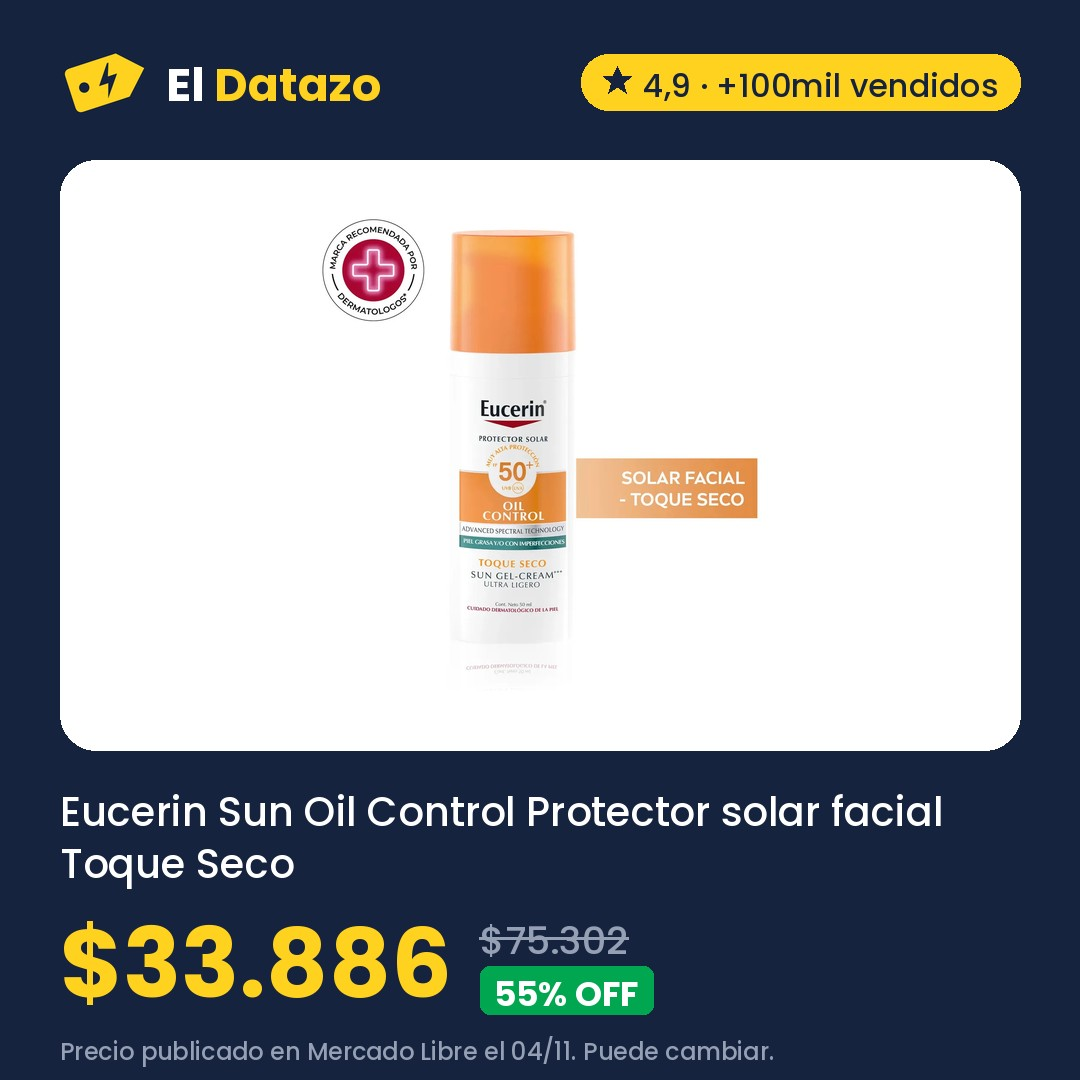
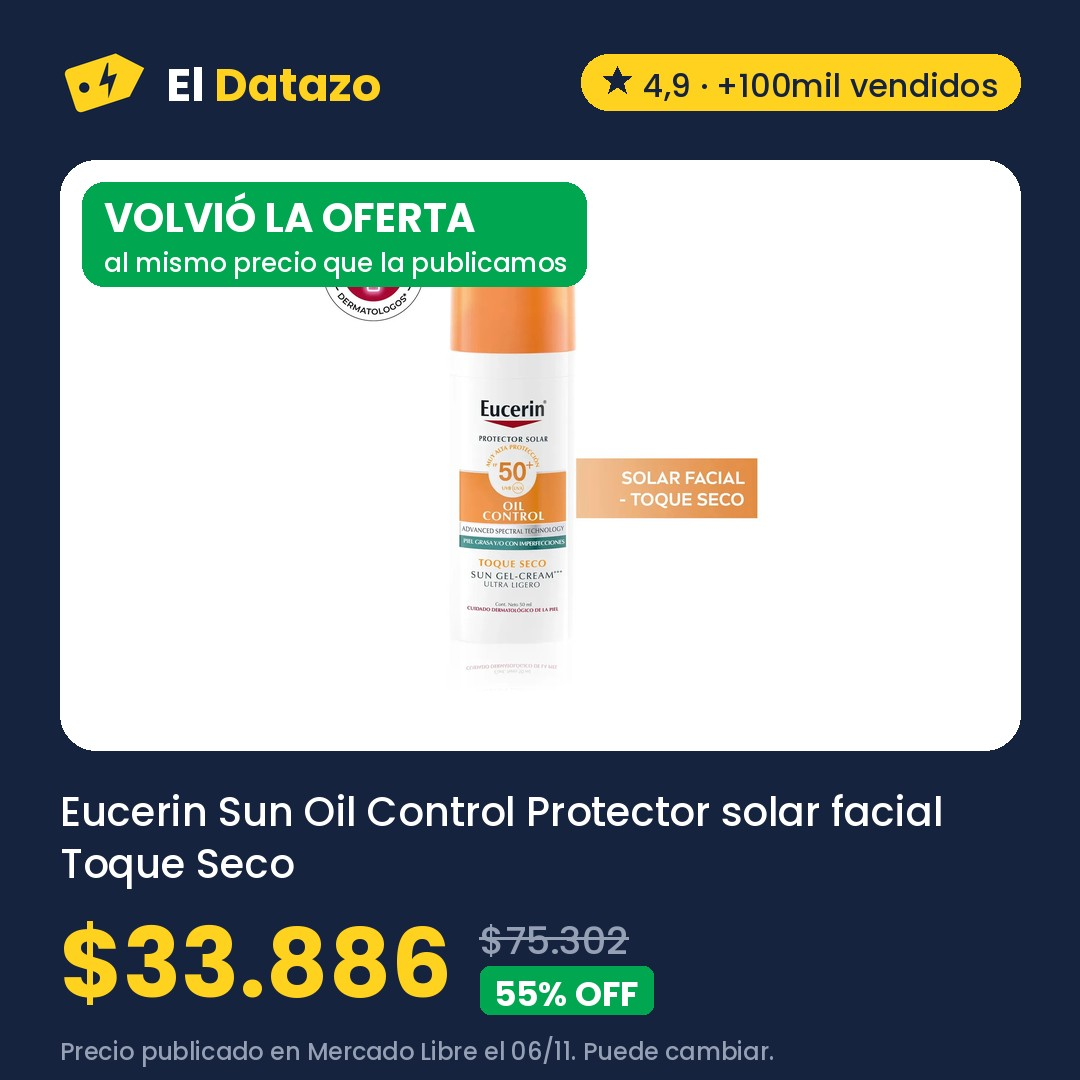
Ofertas 2026-11-06 14:33

Changed region(s): [[0.0611, 0.1528, 0.55, 0.275], [0.4889, 0.9472, 0.5194, 0.9778]]

diff --git a/index.html b/index.html
@@ -288,12 +288,12 @@ padding:3px 9px;border-radius:999px}
   <section class="hero" id="MLA47200126" aria-labelledby="hero-titulo">
     <div class="hero-foto"><img src="img/MLA47200126.jpg" alt="Extractor De Leche Eléctrico Mawe By Gadnic RH-289 150 ml 9 Niveles Pantalla LED Batería Recargable 1200mAh" width="1080" height="1080"></div>
     <div class="etiqueta">
-      <p class="etiqueta-cabeza">El datazo de hoy <span class="sello">Quedan 6 días</span></p>
+      <p class="etiqueta-cabeza">El datazo de hoy <span class="sello">Quedan 5 días</span></p>
       <h2 id="hero-titulo">Extractor De Leche Eléctrico Mawe By Gadnic RH-289 150 ml 9 Niveles Pantalla LED Batería Recargable 1200mAh</h2>
       <p class="hero-precio">$32.799</p>
       <p class="hero-antes"><s>$88.399</s> <span class="off">63% OFF</span></p>
       <p class="bajo pastilla"><b>⬇ Volvió</b> · Había terminado y volvió al mismo precio</p>
-      <p class="nota">Precio de hoy a las 20:31 en Mercado Libre. Puede cambiar.</p>
+      <p class="nota">Precio del 05/11 en Mercado Libre, revisado hoy a las 11:32. Puede cambiar.</p>
       <a class="boton oscuro" href="https://meli.la/314C11i" rel="sponsored noopener" target="_blank"
          data-oferta="MLA47200126">Ver oferta en Mercado Libre</a>
       <a class="compartir" href="https://wa.me/?text=Mir%C3%A1%20este%20datazo%3A%20Extractor%20De%20Leche%20El%C3%A9ctrico%20Mawe%20By%20Gadnic%20RH-289%20150%20ml%209%20Niveles%20Pantalla%20LED%20Bater%C3%ADa%20Recargable%201200mAh%20a%20%2432.799%20https%3A//eldatazo.com.ar/%23MLA47200126" target="_blank" rel="noopener" data-estilo="texto"><svg viewBox="0 0 24 24" width="16" height="16" aria-hidden="true"><path d="M4 20l1.3-4A8 8 0 1 1 8 18.7L4 20z" fill="none" stroke="currentColor" stroke-width="2" stroke-linejoin="round"/></svg> Compartir por WhatsApp</a>
@@ -317,16 +317,16 @@ padding:3px 9px;border-radius:999px}
           <span><b>Cámara Digital Kodak Charmera RK0601 Retro Compacta para Llavero y Video</b><span class="ahora">$54.454</span><s>$57.573</s> <span class="bajo">⬇ Bajó</span></span></a></li>
         <li><a href="#MLA43803009"><img src="img/MLA43803009.jpg" alt="" loading="lazy">
           <span><b>Mochila Viaje Carry On Avion Porta Notebook Waggs Negro Lisa</b><span class="ahora">$45.087</span><s>$46.799</s> <span class="bajo">⬇ Volvió y bajó</span></span></a></li>
-        <li><a href="#MLA26204453"><img src="img/MLA26204453.jpg" alt="" loading="lazy">
-          <span><b>Bomba Desagote Agua Sucia Vasser De 400ps 400 Watts</b><span class="ahora">$68.843</span> <span class="bajo">⬇ Volvió</span></span></a></li>
+        <li><a href="#MLA16048275"><img src="img/MLA16048275.jpg" alt="" loading="lazy">
+          <span><b>Eucerin Sun Oil Control Protector solar facial Toque Seco FPS 50 x 50 ml</b><span class="ahora">$33.886</span> <span class="bajo">⬇ Volvió</span></span></a></li>
         <li><a href="#MLA47200126"><img src="img/MLA47200126.jpg" alt="" loading="lazy">
           <span><b>Extractor De Leche Eléctrico Mawe By Gadnic RH-289 150 ml 9 Niveles Pantalla LED Batería Recargable 1200mAh</b><span class="ahora">$32.799</span> <span class="bajo">⬇ Volvió</span></span></a></li>
         <li><a href="#MLA22130330"><img src="img/MLA22130330.jpg" alt="" loading="lazy">
           <span><b>Buclera de Pelo Gadnic B3000 Rizador 3 Tubos 25 mm 150W 180 210 C</b><span class="ahora">$44.463</span> <span class="bajo">⬇ Volvió</span></span></a></li>
         <li><a href="#MLA28878536"><img src="img/MLA28878536.jpg" alt="" loading="lazy">
           <span><b>BOTIQUÍN DE BAÑO TRENTO AMUBE 30x50 CM | Espejo y Repisa | Melamina Blanca</b><span class="ahora">$44.999</span> <span class="bajo">⬇ Volvió</span></span></a></li>
-        <li><a href="https://meli.la/1EDCkjd" rel="sponsored noopener" target="_blank" data-oferta="MLA26835194"><img src="https://http2.mlstatic.com/D_Q_NP_655367-MLA99502430822_112025-AB.webp" alt="" loading="lazy" referrerpolicy="no-referrer">
-          <span><b>Marvel Spider Man 2 Ps5 Playstation 5 Edicion Lanzamiento</b><span class="ahora">$74.999</span><s>$100.000</s>
+        <li><a href="https://meli.la/2oPyPUm" rel="sponsored noopener" target="_blank" data-oferta="MLA18651916"><img src="https://http2.mlstatic.com/D_Q_NP_697638-MLA99515510390_112025-AB.webp" alt="" loading="lazy" referrerpolicy="no-referrer">
+          <span><b>Auriculares Gamer G435 Logitech G Wireless Gaming Headset Color Negro/Amarillo fluorescente</b><span class="ahora">$172.017</span><s>$290.992</s>
           <span class="bajo">⬇ Bajó</span></span></a></li>
     </ul>
   </section>
@@ -347,38 +347,38 @@ padding:3px 9px;border-radius:999px}
             <option value="precio">Más baratas</option>
           </select></label>
       </div>
-      <div class="chips" role="group" aria-label="Rubro"><button type="button" data-filtro="" aria-pressed="true">Todo</button><button type="button" data-filtro="MLA1512" aria-pressed="false">Agro <span>3</span></button><button type="button" data-filtro="MLA1499" aria-pressed="false">Industrias y Oficinas <span>2</span></button><button type="button" data-filtro="MLA1246" aria-pressed="false">Belleza y Cuidado Personal <span>1</span></button><button type="button" data-filtro="MLA1144" aria-pressed="false">Consolas y Videojuegos <span>1</span></button><button type="button" data-filtro="MLA1500" aria-pressed="false">Construcción <span>1</span></button><button type="button" data-filtro="MLA1039" aria-pressed="false">Cámaras y Accesorios <span>1</span></button><button type="button" data-filtro="MLA1276" aria-pressed="false">Deportes y Fitness <span>1</span></button><button type="button" data-filtro="MLA3025" aria-pressed="false">Libros, Revistas y Comics <span>1</span></button><button type="button" data-filtro="MLA1430" aria-pressed="false">Ropa y Accesorios <span>1</span></button><button type="button" data-filtro="MLA409431" aria-pressed="false">Salud y Equipamiento Médico <span>1</span></button></div>
+      <div class="chips" role="group" aria-label="Rubro"><button type="button" data-filtro="" aria-pressed="true">Todo</button><button type="button" data-filtro="MLA1512" aria-pressed="false">Agro <span>2</span></button><button type="button" data-filtro="MLA1246" aria-pressed="false">Belleza y Cuidado Personal <span>2</span></button><button type="button" data-filtro="MLA1499" aria-pressed="false">Industrias y Oficinas <span>2</span></button><button type="button" data-filtro="MLA1144" aria-pressed="false">Consolas y Videojuegos <span>1</span></button><button type="button" data-filtro="MLA1500" aria-pressed="false">Construcción <span>1</span></button><button type="button" data-filtro="MLA1039" aria-pressed="false">Cámaras y Accesorios <span>1</span></button><button type="button" data-filtro="MLA1276" aria-pressed="false">Deportes y Fitness <span>1</span></button><button type="button" data-filtro="MLA3025" aria-pressed="false">Libros, Revistas y Comics <span>1</span></button><button type="button" data-filtro="MLA1430" aria-pressed="false">Ropa y Accesorios <span>1</span></button><button type="button" data-filtro="MLA409431" aria-pressed="false">Salud y Equipamiento Médico <span>1</span></button></div>
       <p class="contador" aria-live="polite"><span data-cuenta>13</span> ofertas</p>
     </div>
     <div class="grilla activas">
-      <article class="tarjeta destacada" id="MLA26204453" data-rubro="MLA1512" data-off="19" data-pub="2026-11-05" data-quedan="7" data-precio="68843" data-bajo="1" data-texto="bomba desagote agua sucia vasser de 400ps 400 watts">
+      <article class="tarjeta destacada" id="MLA16048275" data-rubro="MLA1246" data-off="55" data-pub="2026-11-06" data-quedan="7" data-precio="33885" data-bajo="1" data-texto="eucerin sun oil control protector solar facial toque seco fps 50 x 50 ml">
         <div class="tarjeta-foto">
-          <img src="img/MLA26204453.jpg" alt="Bomba Desagote Agua Sucia Vasser De 400ps 400 Watts" loading="lazy" width="1080" height="1080">
+          <img src="img/MLA16048275.jpg" alt="Eucerin Sun Oil Control Protector solar facial Toque Seco FPS 50 x 50 ml" loading="lazy" width="1080" height="1080">
         </div>
         <div class="cuerpo">
-          <div class="fila"><span class="sello baja">⬇ Volvió</span><span class="sello">Quedan 7 días</span><span class="rubro">Agro</span></div>
-          <h3>Bomba Desagote Agua Sucia Vasser De 400ps 400 Watts</h3>
-          <p class="precios "><span class="precio">$68.843</span><s class="antes">$85.441</s><span class="off">19% OFF</span></p>
+          <div class="fila"><span class="sello baja">⬇ Volvió</span><span class="sello">Quedan 7 días</span><span class="rubro">Belleza y Cuidado Personal</span></div>
+          <h3>Eucerin Sun Oil Control Protector solar facial Toque Seco FPS 50 x 50 ml</h3>
+          <p class="precios "><span class="precio">$33.886</span><s class="antes">$75.302</s><span class="off">55% OFF</span></p>
           <p class="bajo">Había terminado y volvió al mismo precio</p>
-          <p class="nota">Precio de hoy a las 20:31 en Mercado Libre. Puede cambiar.</p>
+          <p class="nota">Precio de hoy a las 11:32 en Mercado Libre. Puede cambiar.</p>
           <div class="acciones">
-            <a class="boton" href="https://meli.la/19GEcXU" rel="sponsored noopener" target="_blank"
-               data-oferta="MLA26204453">Ver oferta</a>
-            <a class="compartir" href="https://wa.me/?text=Mir%C3%A1%20este%20datazo%3A%20Bomba%20Desagote%20Agua%20Sucia%20Vasser%20De%20400ps%20400%20Watts%20a%20%2468.843%20https%3A//eldatazo.com.ar/%23MLA26204453" target="_blank" rel="noopener"
+            <a class="boton" href="https://meli.la/2Zpeewk" rel="sponsored noopener" target="_blank"
+               data-oferta="MLA16048275">Ver oferta</a>
+            <a class="compartir" href="https://wa.me/?text=Mir%C3%A1%20este%20datazo%3A%20Eucerin%20Sun%20Oil%20Control%20Protector%20solar%20facial%20Toque%20Seco%20FPS%2050%20x%2050%20ml%20a%20%2433.886%20https%3A//eldatazo.com.ar/%23MLA16048275" target="_blank" rel="noopener"
                aria-label="Compartir por WhatsApp" title="Compartir por WhatsApp"><svg viewBox="0 0 24 24" width="16" height="16" aria-hidden="true"><path d="M4 20l1.3-4A8 8 0 1 1 8 18.7L4 20z" fill="none" stroke="currentColor" stroke-width="2" stroke-linejoin="round"/></svg></a>
           </div>
         </div>
       </article>
-      <article class="tarjeta destacada" id="MLA19719361" data-rubro="MLA1499" data-off="45" data-pub="2026-11-02" data-quedan="4" data-precio="32899" data-bajo="11" data-texto="yelmo as-3240 aspiradora para auto recargable usb color gris">
+      <article class="tarjeta destacada" id="MLA19719361" data-rubro="MLA1499" data-off="45" data-pub="2026-11-02" data-quedan="3" data-precio="32899" data-bajo="11" data-texto="yelmo as-3240 aspiradora para auto recargable usb color gris">
         <div class="tarjeta-foto">
           <img src="img/MLA19719361.jpg" alt="Yelmo As-3240 Aspiradora Para Auto Recargable Usb Color Gris" loading="lazy" width="1080" height="1080">
         </div>
         <div class="cuerpo">
-          <div class="fila"><span class="sello baja">⬇ Volvió y bajó</span><span class="sello">Quedan 4 días</span><span class="rubro">Industrias y Oficinas</span></div>
+          <div class="fila"><span class="sello baja">⬇ Volvió y bajó</span><span class="sello">Quedan 3 días</span><span class="rubro">Industrias y Oficinas</span></div>
           <h3>Yelmo As-3240 Aspiradora Para Auto Recargable Usb Color Gris</h3>
           <p class="precios "><span class="precio">$32.899</span><s class="antes">$59.899</s><span class="off">45% OFF</span></p>
           <p class="bajo">Antes $36.567 el 02/11 · 10% menos</p>
-          <p class="nota">Precio del 03/11 en Mercado Libre, revisado hoy a las 20:31. Puede cambiar.</p>
+          <p class="nota">Precio del 03/11 en Mercado Libre, revisado hoy a las 11:32. Puede cambiar.</p>
           <div class="acciones">
             <a class="boton" href="https://meli.la/1BA5g6k" rel="sponsored noopener" target="_blank"
                data-oferta="MLA19719361">Ver oferta</a>
@@ -387,16 +387,16 @@ padding:3px 9px;border-radius:999px}
           </div>
         </div>
       </article>
-      <article class="tarjeta destacada" id="MLA22130330" data-rubro="MLA1246" data-off="56" data-pub="2026-11-02" data-quedan="4" data-precio="44462" data-bajo="1" data-texto="buclera de pelo gadnic b3000 rizador 3 tubos 25 mm 150w 180 210 c">
+      <article class="tarjeta destacada" id="MLA22130330" data-rubro="MLA1246" data-off="56" data-pub="2026-11-02" data-quedan="3" data-precio="44462" data-bajo="1" data-texto="buclera de pelo gadnic b3000 rizador 3 tubos 25 mm 150w 180 210 c">
         <div class="tarjeta-foto">
           <img src="img/MLA22130330.jpg" alt="Buclera de Pelo Gadnic B3000 Rizador 3 Tubos 25 mm 150W 180 210 C" loading="lazy" width="1080" height="1080">
         </div>
         <div class="cuerpo">
-          <div class="fila"><span class="sello baja">⬇ Volvió</span><span class="sello">Quedan 4 días</span><span class="rubro">Belleza y Cuidado Personal</span></div>
+          <div class="fila"><span class="sello baja">⬇ Volvió</span><span class="sello">Quedan 3 días</span><span class="rubro">Belleza y Cuidado Personal</span></div>
           <h3>Buclera de Pelo Gadnic B3000 Rizador 3 Tubos 25 mm 150W 180 210 C</h3>
           <p class="precios "><span class="precio">$44.463</span><s class="antes">$100.099</s><span class="off">56% OFF</span></p>
           <p class="bajo">Había terminado y volvió al mismo precio</p>
-          <p class="nota">Precio del 03/11 en Mercado Libre, revisado hoy a las 20:31. Puede cambiar.</p>
+          <p class="nota">Precio del 03/11 en Mercado Libre, revisado hoy a las 11:32. Puede cambiar.</p>
           <div class="acciones">
             <a class="boton" href="https://meli.la/1HyqnAD" rel="sponsored noopener" target="_blank"
                data-oferta="MLA22130330">Ver oferta</a>
@@ -405,16 +405,16 @@ padding:3px 9px;border-radius:999px}
           </div>
         </div>
       </article>
-      <article class="tarjeta destacada" id="MLA24729106" data-rubro="MLA1512" data-off="17" data-pub="2026-11-02" data-quedan="4" data-precio="47890" data-bajo="13" data-texto="crique hidraulico carrito gato para autos 2 tn mejor calidad">
+      <article class="tarjeta destacada" id="MLA24729106" data-rubro="MLA1512" data-off="17" data-pub="2026-11-02" data-quedan="3" data-precio="47890" data-bajo="13" data-texto="crique hidraulico carrito gato para autos 2 tn mejor calidad">
         <div class="tarjeta-foto">
           <img src="img/MLA24729106.jpg" alt="Crique Hidraulico Carrito Gato Para Autos 2 Tn Mejor Calidad" loading="lazy" width="1080" height="1080">
         </div>
         <div class="cuerpo">
-          <div class="fila"><span class="sello baja">⬇ Bajó</span><span class="sello">Quedan 4 días</span><span class="rubro">Agro</span></div>
+          <div class="fila"><span class="sello baja">⬇ Bajó</span><span class="sello">Quedan 3 días</span><span class="rubro">Agro</span></div>
           <h3>Crique Hidraulico Carrito Gato Para Autos 2 Tn Mejor Calidad</h3>
           <p class="precios "><span class="precio">$47.890</span><s class="antes">$58.014</s><span class="off">17% OFF</span></p>
           <p class="bajo">Antes $54.533 el 01/11 · 12% menos</p>
-          <p class="nota">Precio del 02/11 en Mercado Libre, revisado hoy a las 20:31. Puede cambiar.</p>
+          <p class="nota">Precio del 02/11 en Mercado Libre, revisado hoy a las 11:32. Puede cambiar.</p>
           <div class="acciones">
             <a class="boton" href="https://meli.la/2ZwvMNb" rel="sponsored noopener" target="_blank"
                data-oferta="MLA24729106">Ver oferta</a>
@@ -423,16 +423,16 @@ padding:3px 9px;border-radius:999px}
           </div>
         </div>
       </article>
-      <article class="tarjeta destacada" id="MLA28878536" data-rubro="MLA1500" data-off="1" data-pub="2026-11-02" data-quedan="4" data-precio="44999" data-bajo="1" data-texto="botiquín de baño trento amube 30x50 cm | espejo y repisa | melamina blanca">
+      <article class="tarjeta destacada" id="MLA28878536" data-rubro="MLA1500" data-off="1" data-pub="2026-11-02" data-quedan="3" data-precio="44999" data-bajo="1" data-texto="botiquín de baño trento amube 30x50 cm | espejo y repisa | melamina blanca">
         <div class="tarjeta-foto">
           <img src="img/MLA28878536.jpg" alt="BOTIQUÍN DE BAÑO TRENTO AMUBE 30x50 CM | Espejo y Repisa | Melamina Blanca" loading="lazy" width="1080" height="1080">
         </div>
         <div class="cuerpo">
-          <div class="fila"><span class="sello baja">⬇ Volvió</span><span class="sello">Quedan 4 días</span><span class="rubro">Construcción</span></div>
+          <div class="fila"><span class="sello baja">⬇ Volvió</span><span class="sello">Quedan 3 días</span><span class="rubro">Construcción</span></div>
           <h3>BOTIQUÍN DE BAÑO TRENTO AMUBE 30x50 CM | Espejo y Repisa | Melamina Blanca</h3>
           <p class="precios "><span class="precio">$44.999</span><s class="antes">$45.394</s><span class="off">1% OFF</span></p>
           <p class="bajo">Había terminado y volvió al mismo precio</p>
-          <p class="nota">Precio de hoy a las 20:31 en Mercado Libre. Puede cambiar.</p>
+          <p class="nota">Precio del 05/11 en Mercado Libre, revisado hoy a las 11:32. Puede cambiar.</p>
           <div class="acciones">
             <a class="boton" href="https://meli.la/2PKMfSp" rel="sponsored noopener" target="_blank"
                data-oferta="MLA28878536">Ver oferta</a>
@@ -441,16 +441,16 @@ padding:3px 9px;border-radius:999px}
           </div>
         </div>
       </article>
-      <article class="tarjeta destacada" id="MLA43803009" data-rubro="MLA1430" data-off="53" data-pub="2026-11-02" data-quedan="4" data-precio="45087" data-bajo="5" data-texto="mochila viaje carry on avion porta notebook waggs negro lisa">
+      <article class="tarjeta destacada" id="MLA43803009" data-rubro="MLA1430" data-off="53" data-pub="2026-11-02" data-quedan="3" data-precio="45087" data-bajo="5" data-texto="mochila viaje carry on avion porta notebook waggs negro lisa">
         <div class="tarjeta-foto">
           <img src="img/MLA43803009.jpg" alt="Mochila Viaje Carry On Avion Porta Notebook Waggs Negro Lisa" loading="lazy" width="1080" height="1080">
         </div>
         <div class="cuerpo">
-          <div class="fila"><span class="sello baja">⬇ Volvió y bajó</span><span class="sello">Quedan 4 días</span><span class="rubro">Ropa y Accesorios</span></div>
+          <div class="fila"><span class="sello baja">⬇ Volvió y bajó</span><span class="sello">Quedan 3 días</span><span class="rubro">Ropa y Accesorios</span></div>
           <h3>Mochila Viaje Carry On Avion Porta Notebook Waggs Negro Lisa</h3>
           <p class="precios "><span class="precio">$45.087</span><s class="antes">$96.758</s><span class="off">53% OFF</span></p>
           <p class="bajo">Antes $46.799 el 28/10 · 4% menos</p>
-          <p class="nota">Precio del 02/11 en Mercado Libre, revisado hoy a las 20:31. Puede cambiar.</p>
+          <p class="nota">Precio del 02/11 en Mercado Libre, revisado hoy a las 11:32. Puede cambiar.</p>
           <div class="acciones">
             <a class="boton" href="https://meli.la/1Y9GX65" rel="sponsored noopener" target="_blank"
                data-oferta="MLA43803009">Ver oferta</a>
@@ -459,16 +459,16 @@ padding:3px 9px;border-radius:999px}
           </div>
         </div>
       </article>
-      <article class="tarjeta destacada" id="MLA73800060" data-rubro="MLA3025" data-off="0" data-pub="2026-11-02" data-quedan="4" data-precio="17000" data-bajo="49" data-texto="libro: primero yo, después el resto: 120 sesiones de verdad">
+      <article class="tarjeta destacada" id="MLA73800060" data-rubro="MLA3025" data-off="0" data-pub="2026-11-02" data-quedan="3" data-precio="17000" data-bajo="49" data-texto="libro: primero yo, después el resto: 120 sesiones de verdad">
         <div class="tarjeta-foto">
           <img src="img/MLA73800060.jpg" alt="Libro: Primero Yo, Después El Resto: 120 Sesiones De Verdad" loading="lazy" width="1080" height="1080">
         </div>
         <div class="cuerpo">
-          <div class="fila"><span class="sello baja">⬇ Bajó</span><span class="sello">Quedan 4 días</span><span class="rubro">Libros, Revistas y Comics</span></div>
+          <div class="fila"><span class="sello baja">⬇ Bajó</span><span class="sello">Quedan 3 días</span><span class="rubro">Libros, Revistas y Comics</span></div>
           <h3>Libro: Primero Yo, Después El Resto: 120 Sesiones De Verdad</h3>
           <p class="precios "><span class="precio">$17.000</span></p>
           <p class="bajo">Antes $33.000 el 01/11 · 48% menos</p>
-          <p class="nota">Precio del 02/11 en Mercado Libre, revisado hoy a las 20:31. Puede cambiar.</p>
+          <p class="nota">Precio del 02/11 en Mercado Libre, revisado hoy a las 11:32. Puede cambiar.</p>
           <div class="acciones">
             <a class="boton" href="https://meli.la/2DQxPNs" rel="sponsored noopener" target="_blank"
                data-oferta="MLA73800060">Ver oferta</a>
@@ -477,16 +477,16 @@ padding:3px 9px;border-radius:999px}
           </div>
         </div>
       </article>
-      <article class="tarjeta destacada" id="MLA19472094" data-rubro="MLA1144" data-off="53" data-pub="2026-11-01" data-quedan="3" data-precio="69999" data-bajo="9" data-texto="god of war ragnarok ps4 juego físico nuevo sony original">
+      <article class="tarjeta destacada" id="MLA19472094" data-rubro="MLA1144" data-off="53" data-pub="2026-11-01" data-quedan="2" data-precio="69999" data-bajo="9" data-texto="god of war ragnarok ps4 juego físico nuevo sony original">
         <div class="tarjeta-foto">
           <img src="img/MLA19472094.jpg" alt="God Of War Ragnarok Ps4 Juego Físico Nuevo Sony Original" loading="lazy" width="1080" height="1080">
         </div>
         <div class="cuerpo">
-          <div class="fila"><span class="sello baja">⬇ Bajó</span><span class="sello">Quedan 3 días</span><span class="rubro">Consolas y Videojuegos</span></div>
+          <div class="fila"><span class="sello baja">⬇ Bajó</span><span class="sello">Quedan 2 días</span><span class="rubro">Consolas y Videojuegos</span></div>
           <h3>God Of War Ragnarok Ps4 Juego Físico Nuevo Sony Original</h3>
           <p class="precios "><span class="precio">$69.999</span><s class="antes">$149.999</s><span class="off">53% OFF</span></p>
           <p class="bajo">Antes $75.999 el 01/11 · 8% menos</p>
-          <p class="nota">Precio del 03/11 en Mercado Libre, revisado hoy a las 20:31. Puede cambiar.</p>
+          <p class="nota">Precio del 03/11 en Mercado Libre, revisado hoy a las 11:32. Puede cambiar.</p>
           <div class="acciones">
             <a class="boton" href="https://meli.la/217QPCu" rel="sponsored noopener" target="_blank"
                data-oferta="MLA19472094">Ver oferta</a>
@@ -495,16 +495,16 @@ padding:3px 9px;border-radius:999px}
           </div>
         </div>
       </article>
-      <article class="tarjeta destacada" id="MLA23456165" data-rubro="MLA409431" data-off="11" data-pub="2026-11-01" data-quedan="3" data-precio="46932" data-bajo="8" data-texto="silfab al91 almohadilla eléctrica espalda large 41 x 28 cm">
+      <article class="tarjeta destacada" id="MLA23456165" data-rubro="MLA409431" data-off="11" data-pub="2026-11-01" data-quedan="2" data-precio="46932" data-bajo="8" data-texto="silfab al91 almohadilla eléctrica espalda large 41 x 28 cm">
         <div class="tarjeta-foto">
           <img src="img/MLA23456165.jpg" alt="Silfab AL91 Almohadilla Eléctrica Espalda Large 41 X 28 Cm" loading="lazy" width="1080" height="1080">
         </div>
         <div class="cuerpo">
-          <div class="fila"><span class="sello baja">⬇ Volvió y bajó</span><span class="sello">Quedan 3 días</span><span class="rubro">Salud y Equipamiento Médico</span></div>
+          <div class="fila"><span class="sello baja">⬇ Volvió y bajó</span><span class="sello">Quedan 2 días</span><span class="rubro">Salud y Equipamiento Médico</span></div>
           <h3>Silfab AL91 Almohadilla Eléctrica Espalda Large 41 X 28 Cm</h3>
           <p class="precios "><span class="precio">$46.932</span><s class="antes">$52.990</s><span class="off">11% OFF</span></p>
           <p class="bajo">Antes $50.465 el 24/10 · 7% menos</p>
-          <p class="nota">Precio del 02/11 en Mercado Libre, revisado hoy a las 20:31. Puede cambiar.</p>
+          <p class="nota">Precio del 02/11 en Mercado Libre, revisado hoy a las 11:32. Puede cambiar.</p>
           <div class="acciones">
             <a class="boton" href="https://meli.la/2cQdCWW" rel="sponsored noopener" target="_blank"
                data-oferta="MLA23456165">Ver oferta</a>
@@ -513,16 +513,16 @@ padding:3px 9px;border-radius:999px}
           </div>
         </div>
       </article>
-      <article class="tarjeta" id="MLA29532448" data-rubro="MLA1512" data-off="0" data-pub="2026-11-01" data-quedan="3" data-precio="70220" data-bajo="0" data-texto="taladro percutor total mandril 13mm 710w tg107136 color turquesa frecuencia 50 hz x 60 hz">
+      <article class="tarjeta" id="MLA29532448" data-rubro="MLA1512" data-off="0" data-pub="2026-11-01" data-quedan="2" data-precio="70220" data-bajo="0" data-texto="taladro percutor total mandril 13mm 710w tg107136 color turquesa frecuencia 50 hz x 60 hz">
         <div class="tarjeta-foto">
           <img src="img/MLA29532448.jpg" alt="Taladro Percutor Total Mandril 13mm 710w Tg107136 Color Turquesa Frecuencia 50 Hz x 60 Hz" loading="lazy" width="1080" height="1080">
         </div>
         <div class="cuerpo">
-          <div class="fila"><span class="sello">Quedan 3 días</span><span class="rubro">Agro</span></div>
+          <div class="fila"><span class="sello">Quedan 2 días</span><span class="rubro">Agro</span></div>
           <h3>Taladro Percutor Total Mandril 13mm 710w Tg107136 Color Turquesa Frecuencia 50 Hz x 60 Hz</h3>
           <p class="precios "><span class="precio">$70.220</span></p>
           
-          <p class="nota">Precio del 01/11 en Mercado Libre, revisado hoy a las 20:31. Puede cambiar.</p>
+          <p class="nota">Precio del 01/11 en Mercado Libre, revisado hoy a las 11:32. Puede cambiar.</p>
           <div class="acciones">
             <a class="boton" href="https://meli.la/2dUz2s5" rel="sponsored noopener" target="_blank"
                data-oferta="MLA29532448">Ver oferta</a>
@@ -531,16 +531,16 @@ padding:3px 9px;border-radius:999px}
           </div>
         </div>
       </article>
-      <article class="tarjeta destacada" id="MLA63186370" data-rubro="MLA1039" data-off="32" data-pub="2026-11-01" data-quedan="3" data-precio="54454" data-bajo="6" data-texto="cámara digital kodak charmera rk0601 retro compacta para llavero y video">
+      <article class="tarjeta destacada" id="MLA63186370" data-rubro="MLA1039" data-off="32" data-pub="2026-11-01" data-quedan="2" data-precio="54454" data-bajo="6" data-texto="cámara digital kodak charmera rk0601 retro compacta para llavero y video">
         <div class="tarjeta-foto">
           <img src="img/MLA63186370.jpg" alt="Cámara Digital Kodak Charmera RK0601 Retro Compacta para Llavero y Video" loading="lazy" width="1080" height="1080">
         </div>
         <div class="cuerpo">
-          <div class="fila"><span class="sello baja">⬇ Bajó</span><span class="sello">Quedan 3 días</span><span class="rubro">Cámaras y Accesorios</span></div>
+          <div class="fila"><span class="sello baja">⬇ Bajó</span><span class="sello">Quedan 2 días</span><span class="rubro">Cámaras y Accesorios</span></div>
           <h3>Cámara Digital Kodak Charmera RK0601 Retro Compacta para Llavero y Video</h3>
           <p class="precios "><span class="precio">$54.454</span><s class="antes">$80.000</s><span class="off">32% OFF</span></p>
           <p class="bajo">Antes $57.573 el 01/11 · 5% menos</p>
-          <p class="nota">Precio del 02/11 en Mercado Libre, revisado hoy a las 20:31. Puede cambiar.</p>
+          <p class="nota">Precio del 02/11 en Mercado Libre, revisado hoy a las 11:32. Puede cambiar.</p>
           <div class="acciones">
             <a class="boton" href="https://meli.la/2QAJKif" rel="sponsored noopener" target="_blank"
                data-oferta="MLA63186370">Ver oferta</a>
@@ -549,16 +549,16 @@ padding:3px 9px;border-radius:999px}
           </div>
         </div>
       </article>
-      <article class="tarjeta" id="MLA22764635" data-rubro="MLA1276" data-off="32" data-pub="2026-10-26" data-quedan="4" data-precio="47514" data-bajo="0" data-texto="colchón inflable doble klimber + inflador + 2 almohadas">
+      <article class="tarjeta" id="MLA22764635" data-rubro="MLA1276" data-off="32" data-pub="2026-10-26" data-quedan="3" data-precio="47514" data-bajo="0" data-texto="colchón inflable doble klimber + inflador + 2 almohadas">
         <div class="tarjeta-foto">
           <img src="img/MLA22764635.jpg" alt="Colchón Inflable Doble Klimber + Inflador + 2 Almohadas" loading="lazy" width="1080" height="1080">
         </div>
         <div class="cuerpo">
-          <div class="fila"><span class="sello">Quedan 4 días</span><span class="rubro">Deportes y Fitness</span></div>
+          <div class="fila"><span class="sello">Quedan 3 días</span><span class="rubro">Deportes y Fitness</span></div>
           <h3>Colchón Inflable Doble Klimber + Inflador + 2 Almohadas</h3>
           <p class="precios "><span class="precio">$47.514</span><s class="antes">$69.793</s><span class="off">32% OFF</span></p>
           
-          <p class="nota">Precio de hoy a las 20:31 en Mercado Libre. Puede cambiar.</p>
+          <p class="nota">Precio del 05/11 en Mercado Libre, revisado hoy a las 11:32. Puede cambiar.</p>
           <div class="acciones">
             <a class="boton" href="https://meli.la/19eMhmv" rel="sponsored noopener" target="_blank"
                data-oferta="MLA22764635">Ver oferta</a>
@@ -567,16 +567,16 @@ padding:3px 9px;border-radius:999px}
           </div>
         </div>
       </article>
-      <article class="tarjeta" id="MLA45260672" data-rubro="MLA1499" data-off="31" data-pub="2026-10-26" data-quedan="4" data-precio="40596" data-bajo="0" data-texto="rotuladora portátil niimbot etiquetadora manual impresora color blanco d110">
+      <article class="tarjeta" id="MLA45260672" data-rubro="MLA1499" data-off="31" data-pub="2026-10-26" data-quedan="3" data-precio="40596" data-bajo="0" data-texto="rotuladora portátil niimbot etiquetadora manual impresora color blanco d110">
         <div class="tarjeta-foto">
           <img src="img/MLA45260672.jpg" alt="Rotuladora Portátil Niimbot Etiquetadora Manual Impresora Color Blanco D110" loading="lazy" width="1080" height="1080">
         </div>
         <div class="cuerpo">
-          <div class="fila"><span class="sello">Quedan 4 días</span><span class="rubro">Industrias y Oficinas</span></div>
+          <div class="fila"><span class="sello">Quedan 3 días</span><span class="rubro">Industrias y Oficinas</span></div>
           <h3>Rotuladora Portátil Niimbot Etiquetadora Manual Impresora Color Blanco D110</h3>
           <p class="precios "><span class="precio">$40.596</span><s class="antes">$58.900</s><span class="off">31% OFF</span></p>
           
-          <p class="nota">Precio del 02/11 en Mercado Libre, revisado hoy a las 20:31. Puede cambiar.</p>
+          <p class="nota">Precio del 02/11 en Mercado Libre, revisado hoy a las 11:32. Puede cambiar.</p>
           <div class="acciones">
             <a class="boton" href="https://meli.la/1czSFp6" rel="sponsored noopener" target="_blank"
                data-oferta="MLA45260672">Ver oferta</a>
@@ -594,7 +594,7 @@ padding:3px 9px;border-radius:999px}
     <div class="envoltura">
       <h2 id="vendidos-titulo">Lo más vendido en Mercado Libre</h2>
       <p class="banda-sub">El ranking de cada rubro esta semana: lo que más compra la gente, con buena calificación.
-      Precios revisados el 05/11, pueden cambiar.</p>
+      Precios revisados el 06/11, pueden cambiar.</p>
       <div class="pestanas" role="tablist" aria-label="Rubros"><button type="button" role="tab" id="pt-0" aria-controls="pn-0" aria-selected="true" data-rubro="MLA1144">Consolas y Videojuegos</button><button type="button" role="tab" id="pt-1" aria-controls="pn-1" aria-selected="false" data-rubro="MLA1512">Agro</button><button type="button" role="tab" id="pt-2" aria-controls="pn-2" aria-selected="false" data-rubro="MLA1039">Cámaras y Accesorios</button><button type="button" role="tab" id="pt-3" aria-controls="pn-3" aria-selected="false" data-rubro="MLA1182">Instrumentos Musicales</button><button type="button" role="tab" id="pt-4" aria-controls="pn-4" aria-selected="false" data-rubro="MLA1000">Electrónica, Audio y Video</button></div>
       
       <div class="panel-rubro" role="tabpanel" id="pn-0" aria-labelledby="pt-0" data-rubro="MLA1144">
@@ -607,7 +607,7 @@ padding:3px 9px;border-radius:999px}
               <span class="puesto">#1</span>
               <span class="mini-foto"><img src="https://http2.mlstatic.com/D_Q_NP_697638-MLA99515510390_112025-AB.webp" alt="" loading="lazy" referrerpolicy="no-referrer" onerror="this.remove()"></span>
               <span class="mini-titulo">Auriculares Gamer G435 Logitech G Wireless Gaming Headset Color Negro/Amarillo fluorescente</span>
-              <span class="mini-precio">$230.900</span><span class="mini-bajo">⬇ Bajó · antes $290.992 el 01/11</span>
+              <span class="mini-precio">$172.017</span><span class="mini-bajo">⬇ Bajó · antes $290.992 el 01/11</span>
               <span class="mini-dato">★ 4,7  +10mil vendidos</span>
             </a>
           </li>
@@ -706,7 +706,7 @@ padding:3px 9px;border-radius:999px}
               <span class="puesto">#3</span>
               <span class="mini-foto"><img src="https://http2.mlstatic.com/D_Q_NP_753998-MLA84845458053_052025-AB.webp" alt="" loading="lazy" referrerpolicy="no-referrer" onerror="this.remove()"></span>
               <span class="mini-titulo">Microscopio Digital Andonstar Ad106s 1080p Full Hd Usb Lcd Color Negro</span>
-              <span class="mini-precio">$179.450</span>
+              <span class="mini-precio">$175.000</span>
               <span class="mini-dato">★ 4,8  +1000 vendidos</span>
             </a>
           </li>
@@ -769,7 +769,7 @@ padding:3px 9px;border-radius:999px}
               <span class="puesto">#1</span>
               <span class="mini-foto"><img src="https://http2.mlstatic.com/D_Q_NP_714087-MLA96151231035_102025-AB.webp" alt="" loading="lazy" referrerpolicy="no-referrer" onerror="this.remove()"></span>
               <span class="mini-titulo">Xiaomi Redmi Buds 6 Play</span>
-              <span class="mini-precio">$22.688</span><span class="mini-bajo">⬇ Bajó · antes $24.676 el 01/11</span>
+              <span class="mini-precio">$22.700</span><span class="mini-bajo">⬇ Bajó · antes $24.676 el 01/11</span>
               <span class="mini-dato">★ 4,8  +50mil vendidos</span>
             </a>
           </li>
@@ -847,15 +847,15 @@ padding:3px 9px;border-radius:999px}
     <div class="envoltura">
       <details class="terminadas"><summary>Terminadas · ofertas que ya no están vigentes (30)</summary>
 <div class="grilla">
-      <article class="tarjeta terminada" id="MLA16048275">
+      <article class="tarjeta terminada" id="MLA26204453">
         <div class="tarjeta-foto">
-          <img src="img/MLA16048275_terminada.jpg" alt="Eucerin Sun Oil Control Protector solar facial Toque Seco FPS 50 x 50 ml" loading="lazy" width="1080" height="1080">
+          <img src="img/MLA26204453_terminada.jpg" alt="Bomba Desagote Agua Sucia Vasser De 400ps 400 Watts" loading="lazy" width="1080" height="1080">
         </div>
         <div class="cuerpo">
-          <h3>Eucerin Sun Oil Control Protector solar facial Toque Seco FPS 50 x 50 ml</h3>
-          <p class="nota">Terminó el 05/11. El link sigue abierto: mirá el precio de hoy.</p>
-          <a class="boton suave" href="https://meli.la/2Zpeewk" rel="sponsored noopener" target="_blank"
-             data-oferta="MLA16048275">Ver precio de hoy</a>
+          <h3>Bomba Desagote Agua Sucia Vasser De 400ps 400 Watts</h3>
+          <p class="nota">Terminó el 06/11. El link sigue abierto: mirá el precio de hoy.</p>
+          <a class="boton suave" href="https://meli.la/19GEcXU" rel="sponsored noopener" target="_blank"
+             data-oferta="MLA26204453">Ver precio de hoy</a>
         </div>
       </article>
       <article class="tarjeta terminada" id="MLA26522167">
@@ -1185,7 +1185,7 @@ padding:3px 9px;border-radius:999px}
       <nav class="redes" aria-label="Redes de El Datazo"><a class="red" href="https://www.instagram.com/eldatazo.arg/" target="_blank" rel="noopener"><svg viewBox="0 0 24 24" width="18" height="18" aria-hidden="true"><rect x="3" y="3" width="18" height="18" rx="5" fill="none" stroke="currentColor" stroke-width="2"/><circle cx="12" cy="12" r="4" fill="none" stroke="currentColor" stroke-width="2"/><circle cx="17.5" cy="6.5" r="1.3" fill="currentColor"/></svg> Instagram</a><a class="red" href="https://www.facebook.com/profile.php?id=61595441168911" target="_blank" rel="noopener"><svg viewBox="0 0 24 24" width="18" height="18" aria-hidden="true"><path d="M14 8h3V4h-3a4 4 0 0 0-4 4v2H7v4h3v8h4v-8h3l1-4h-4V8z" fill="currentColor"/></svg> Facebook</a><a class="red" href="https://t.me/eldatazo_ofertas" target="_blank" rel="noopener"><svg viewBox="0 0 24 24" width="18" height="18" aria-hidden="true"><path d="M21 4 3 11l5 2 2 6 3-4 5 4 3-15zM9 13l9-6-7 8" fill="none" stroke="currentColor" stroke-width="1.8" stroke-linejoin="round"/></svg> Telegram</a></nav>
       <p>Los links son de afiliado de Mercado Libre: si comprás, El Datazo puede recibir una comisión, sin que cambie
       tu precio. Los precios son los publicados en Mercado Libre el día indicado y pueden cambiar.</p>
-      <p>Actualizado el 05/11/2026 20:31 (hora argentina) · <a href="privacidad/">Privacidad</a></p>
+      <p>Actualizado el 06/11/2026 11:33 (hora argentina) · <a href="privacidad/">Privacidad</a></p>
     </div>
   </footer>
   
